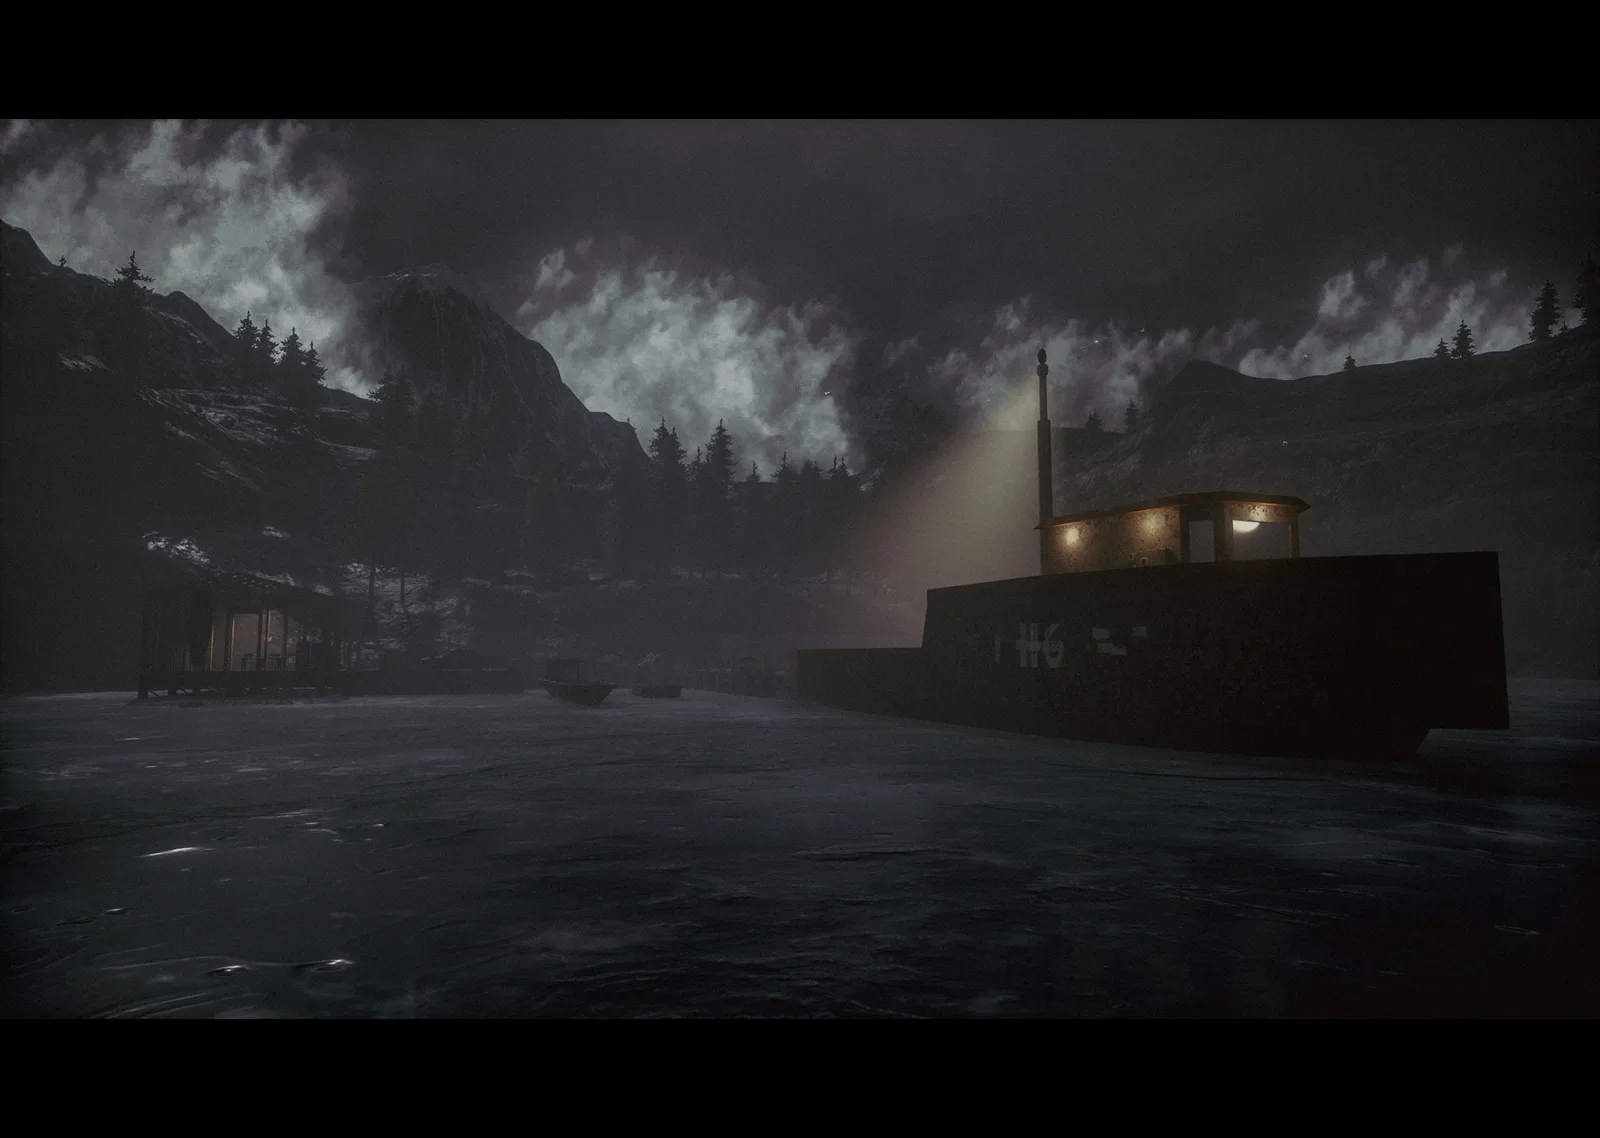
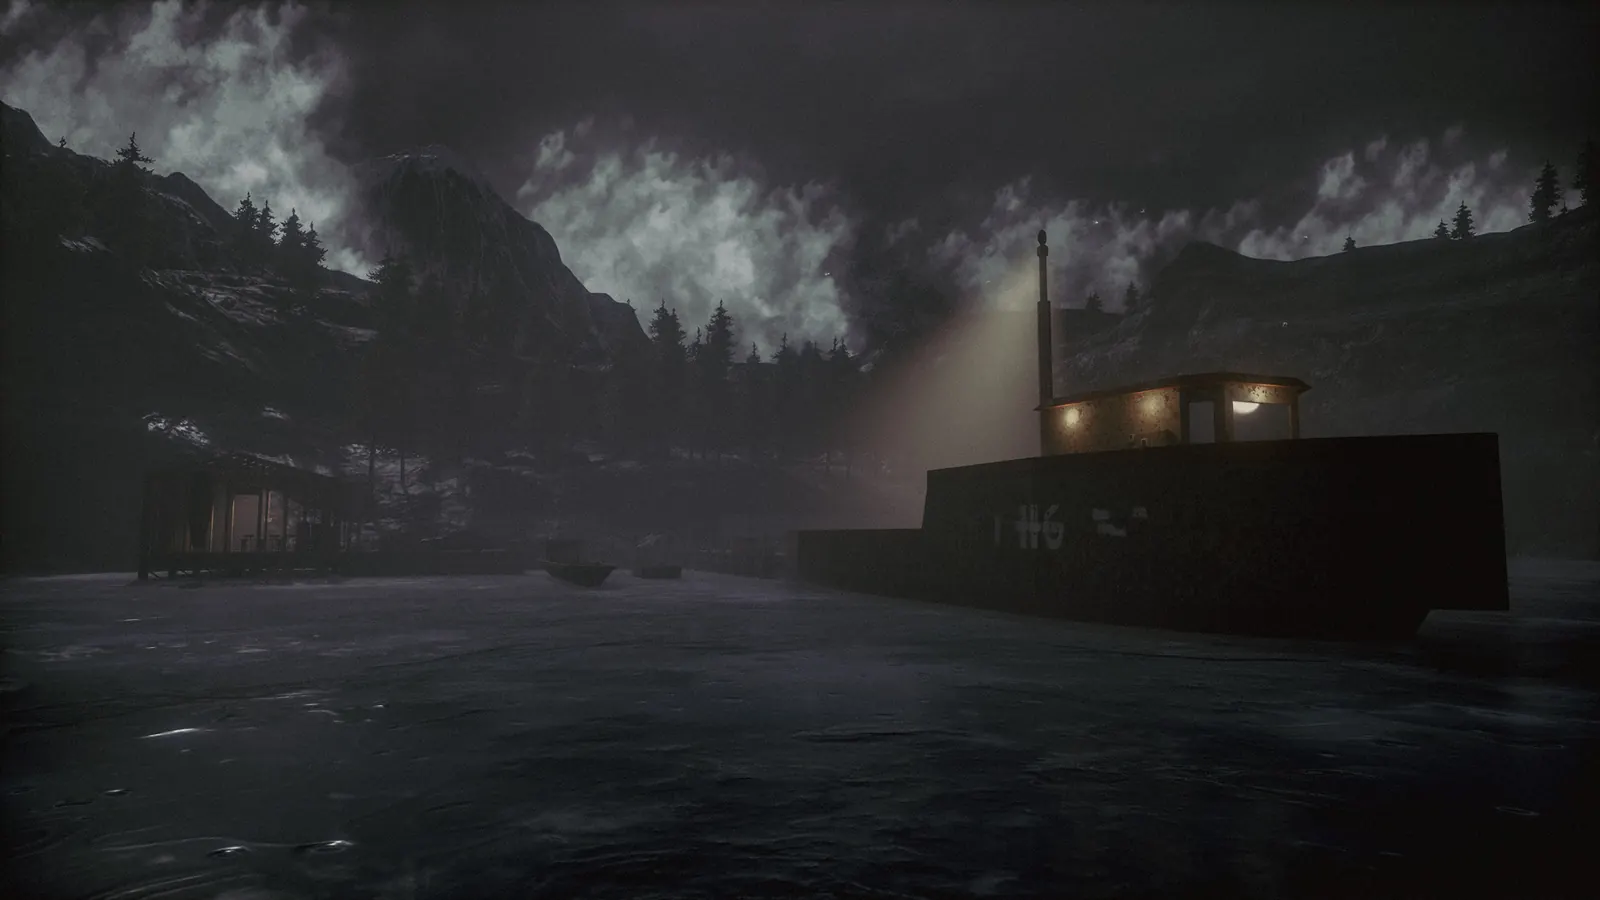
feat: tilt 3D en galería, hero mobile y nuevas imágenes
- Galería: el hover pasa de zoom a una leve inclinación 3D (rotateX/rotateY
  + desplazamiento) que sigue al puntero
- Hero: nombre más grande en mobile (clamp 4–5.25rem) y layout compactado
  arriba para quitar el espacio en blanco; la navbar ahora lleva fondo
  glass en mobile aunque no esté condensada
- Imágenes: project-island reoptimizado a WebP (4 de galería + portada) y
  foedus suma foedus_04; se añade sharp como devDependency para el pipeline

diff --git a/components/Gallery.tsx b/components/Gallery.tsx
@@ -90,7 +90,9 @@ export default function Gallery({ images, title }: GalleryProps) {
   );
 }
 
-/* ── Miniatura con parallax al puntero ─────────────────────────── */
+/* ── Miniatura con leve inclinación 3D al puntero ──────────────── */
+
+const TILT_SPRING = { stiffness: 150, damping: 15, mass: 0.35 };
 
 function GalleryThumb({
   src,
@@ -108,20 +110,30 @@ function GalleryThumb({
   onOpen: () => void;
 }) {
   const { t } = useLang();
-  const mx = useMotionValue(0);
-  const my = useMotionValue(0);
-  const x = useSpring(mx, { stiffness: 140, damping: 18, mass: 0.4 });
-  const y = useSpring(my, { stiffness: 140, damping: 18, mass: 0.4 });
+  const rotX = useMotionValue(0);
+  const rotY = useMotionValue(0);
+  const shiftX = useMotionValue(0);
+  const shiftY = useMotionValue(0);
+  const rotateX = useSpring(rotX, TILT_SPRING);
+  const rotateY = useSpring(rotY, TILT_SPRING);
+  const x = useSpring(shiftX, TILT_SPRING);
+  const y = useSpring(shiftY, TILT_SPRING);
 
   const handleMove = (event: React.MouseEvent<HTMLButtonElement>) => {
     const rect = event.currentTarget.getBoundingClientRect();
-    mx.set(((event.clientX - rect.left) / rect.width - 0.5) * 18);
-    my.set(((event.clientY - rect.top) / rect.height - 0.5) * 18);
+    const px = (event.clientX - rect.left) / rect.width - 0.5; // -0.5 … 0.5
+    const py = (event.clientY - rect.top) / rect.height - 0.5;
+    rotY.set(px * 9); // gira sobre el eje vertical
+    rotX.set(py * -9); // y sobre el horizontal
+    shiftX.set(px * 10);
+    shiftY.set(py * 10);
   };
 
   const reset = () => {
-    mx.set(0);
-    my.set(0);
+    rotX.set(0);
+    rotY.set(0);
+    shiftX.set(0);
+    shiftY.set(0);
   };
 
   return (
@@ -132,14 +144,12 @@ function GalleryThumb({
       onMouseLeave={reset}
       data-cursor
       data-cursor-label={t.lightbox.enlarge}
+      style={{ perspective: 900 }}
       className="group relative block aspect-4/3 w-full overflow-hidden bg-ink"
     >
       <motion.div
-        className="absolute inset-[-7%]"
-        style={{ x, y }}
-        initial={false}
-        whileHover={{ scale: 1.06 }}
-        transition={{ duration: 1.1, ease: easeOutExpo }}
+        className="absolute inset-[-9%]"
+        style={{ rotateX, rotateY, x, y, transformStyle: "preserve-3d" }}
       >
         <ProjectCover src={src} alt={alt} title={title} />
       </motion.div>

diff --git a/components/Hero.tsx b/components/Hero.tsx
@@ -23,14 +23,17 @@ export default function Hero() {
     <section
       ref={ref}
       id="inicio"
-      className="relative flex min-h-svh flex-col justify-between overflow-hidden pt-28 pb-8 sm:pt-32"
+      className="relative flex min-h-svh flex-col justify-between overflow-hidden pt-24 pb-8 sm:pt-32"
     >
-      <motion.div style={{ y, opacity }} className="shell flex flex-1 flex-col justify-between">
+      <motion.div
+        style={{ y, opacity }}
+        className="shell flex flex-1 flex-col justify-start sm:justify-between"
+      >
         <motion.div
           variants={stagger(0.1, 0.15)}
           initial="hidden"
           animate="show"
-          className="flex flex-col gap-16"
+          className="flex flex-col gap-8 sm:gap-16"
         >
           <div className="flex flex-wrap items-baseline justify-between gap-x-8 gap-y-3 font-mono text-label uppercase">
             <span className="mask-line">
@@ -45,7 +48,7 @@ export default function Hero() {
             </span>
           </div>
 
-          <h1 className="text-display font-medium">
+          <h1 className="font-medium tracking-[-0.04em] leading-[0.85] text-[clamp(4rem,18vw,5.25rem)] sm:text-display">
             {NAME_LINES.map((line) => (
               <span className="mask-line" key={line}>
                 <motion.span variants={maskUp} className="block">
@@ -56,7 +59,7 @@ export default function Hero() {
           </h1>
         </motion.div>
 
-        <div className="mt-16 grid gap-10 md:grid-cols-12 md:items-end">
+        <div className="mt-12 grid gap-10 sm:mt-16 md:grid-cols-12 md:items-end">
           <motion.p
             initial={{ opacity: 0, y: 24 }}
             animate={{ opacity: 1, y: 0 }}

diff --git a/content/projects.ts b/content/projects.ts
@@ -31,6 +31,7 @@ export const projects: Project[] = [
       "/images/projects/foedus/foedus_01.webp",
       "/images/projects/foedus/foedus_02.webp",
       "/images/projects/foedus/foedus_03.webp",
+      "/images/projects/foedus/foedus_04.webp",
     ],
     overview: [
       "Foedus es un RPG ambientado en un mundo oscuro y lleno de secretos, donde tomas el rol de un personaje misterioso. El proyecto explora un tono sombrío y una progresión guiada por decisiones, con sistemas de combate y exploración construidos en Unity.",
@@ -57,6 +58,8 @@ export const projects: Project[] = [
     gallery: [
       "/images/projects/project-island/island_01.webp",
       "/images/projects/project-island/island_02.webp",
+      "/images/projects/project-island/island_03.webp",
+      "/images/projects/project-island/island_04.webp",
     ],
     overview: [
       "Project Island es una aventura gráfica narrativa en vista isométrica. El jugador investiga una misteriosa isla en una historia que fusiona suspenso, horror y comedia, apoyándose en diálogo, exploración y resolución de puzzles.",

diff --git a/app/globals.css b/app/globals.css
@@ -99,6 +99,20 @@
       inset 0 1px 0 0 color-mix(in srgb, var(--color-paper) 14%, transparent);
   }
 
+  /* En móvil la navbar conserva el fondo glass aunque no esté condensada, para
+     que se lea sobre el hero. En sm+ vuelve a ser transparente arriba del todo. */
+  @media (max-width: 39.99rem) {
+    .nav-bar {
+      background-color: color-mix(in srgb, var(--color-paper) 62%, transparent);
+      backdrop-filter: blur(22px) saturate(180%);
+      -webkit-backdrop-filter: blur(22px) saturate(180%);
+      border-color: color-mix(in srgb, var(--color-ink) 8%, transparent);
+      box-shadow:
+        0 10px 34px -14px color-mix(in srgb, var(--color-ink) 24%, transparent),
+        inset 0 1px 0 0 color-mix(in srgb, var(--color-paper) 55%, transparent);
+    }
+  }
+
   /* Máscara para reveals línea a línea */
   .mask-line {
     display: block;

diff --git a/components/Nav.tsx b/components/Nav.tsx
@@ -38,8 +38,8 @@ export default function Nav() {
     >
       <nav className="shell flex justify-center pt-4 sm:pt-6">
         <div
-          className={`flex w-full items-center justify-center gap-4 rounded-full px-5 py-4 transition-[background-color,box-shadow,backdrop-filter,border-color] duration-500 sm:justify-between sm:gap-6 sm:px-8 sm:py-[1.15rem] ${
-            condensed ? "glass text-ink" : "border border-transparent bg-transparent"
+          className={`nav-bar flex w-full items-center justify-center gap-4 rounded-full border border-transparent px-5 py-4 transition-[background-color,box-shadow,backdrop-filter,border-color] duration-500 sm:justify-between sm:gap-6 sm:px-8 sm:py-[1.15rem] ${
+            condensed ? "glass text-ink" : "sm:bg-transparent"
           }`}
         >
           <Link
